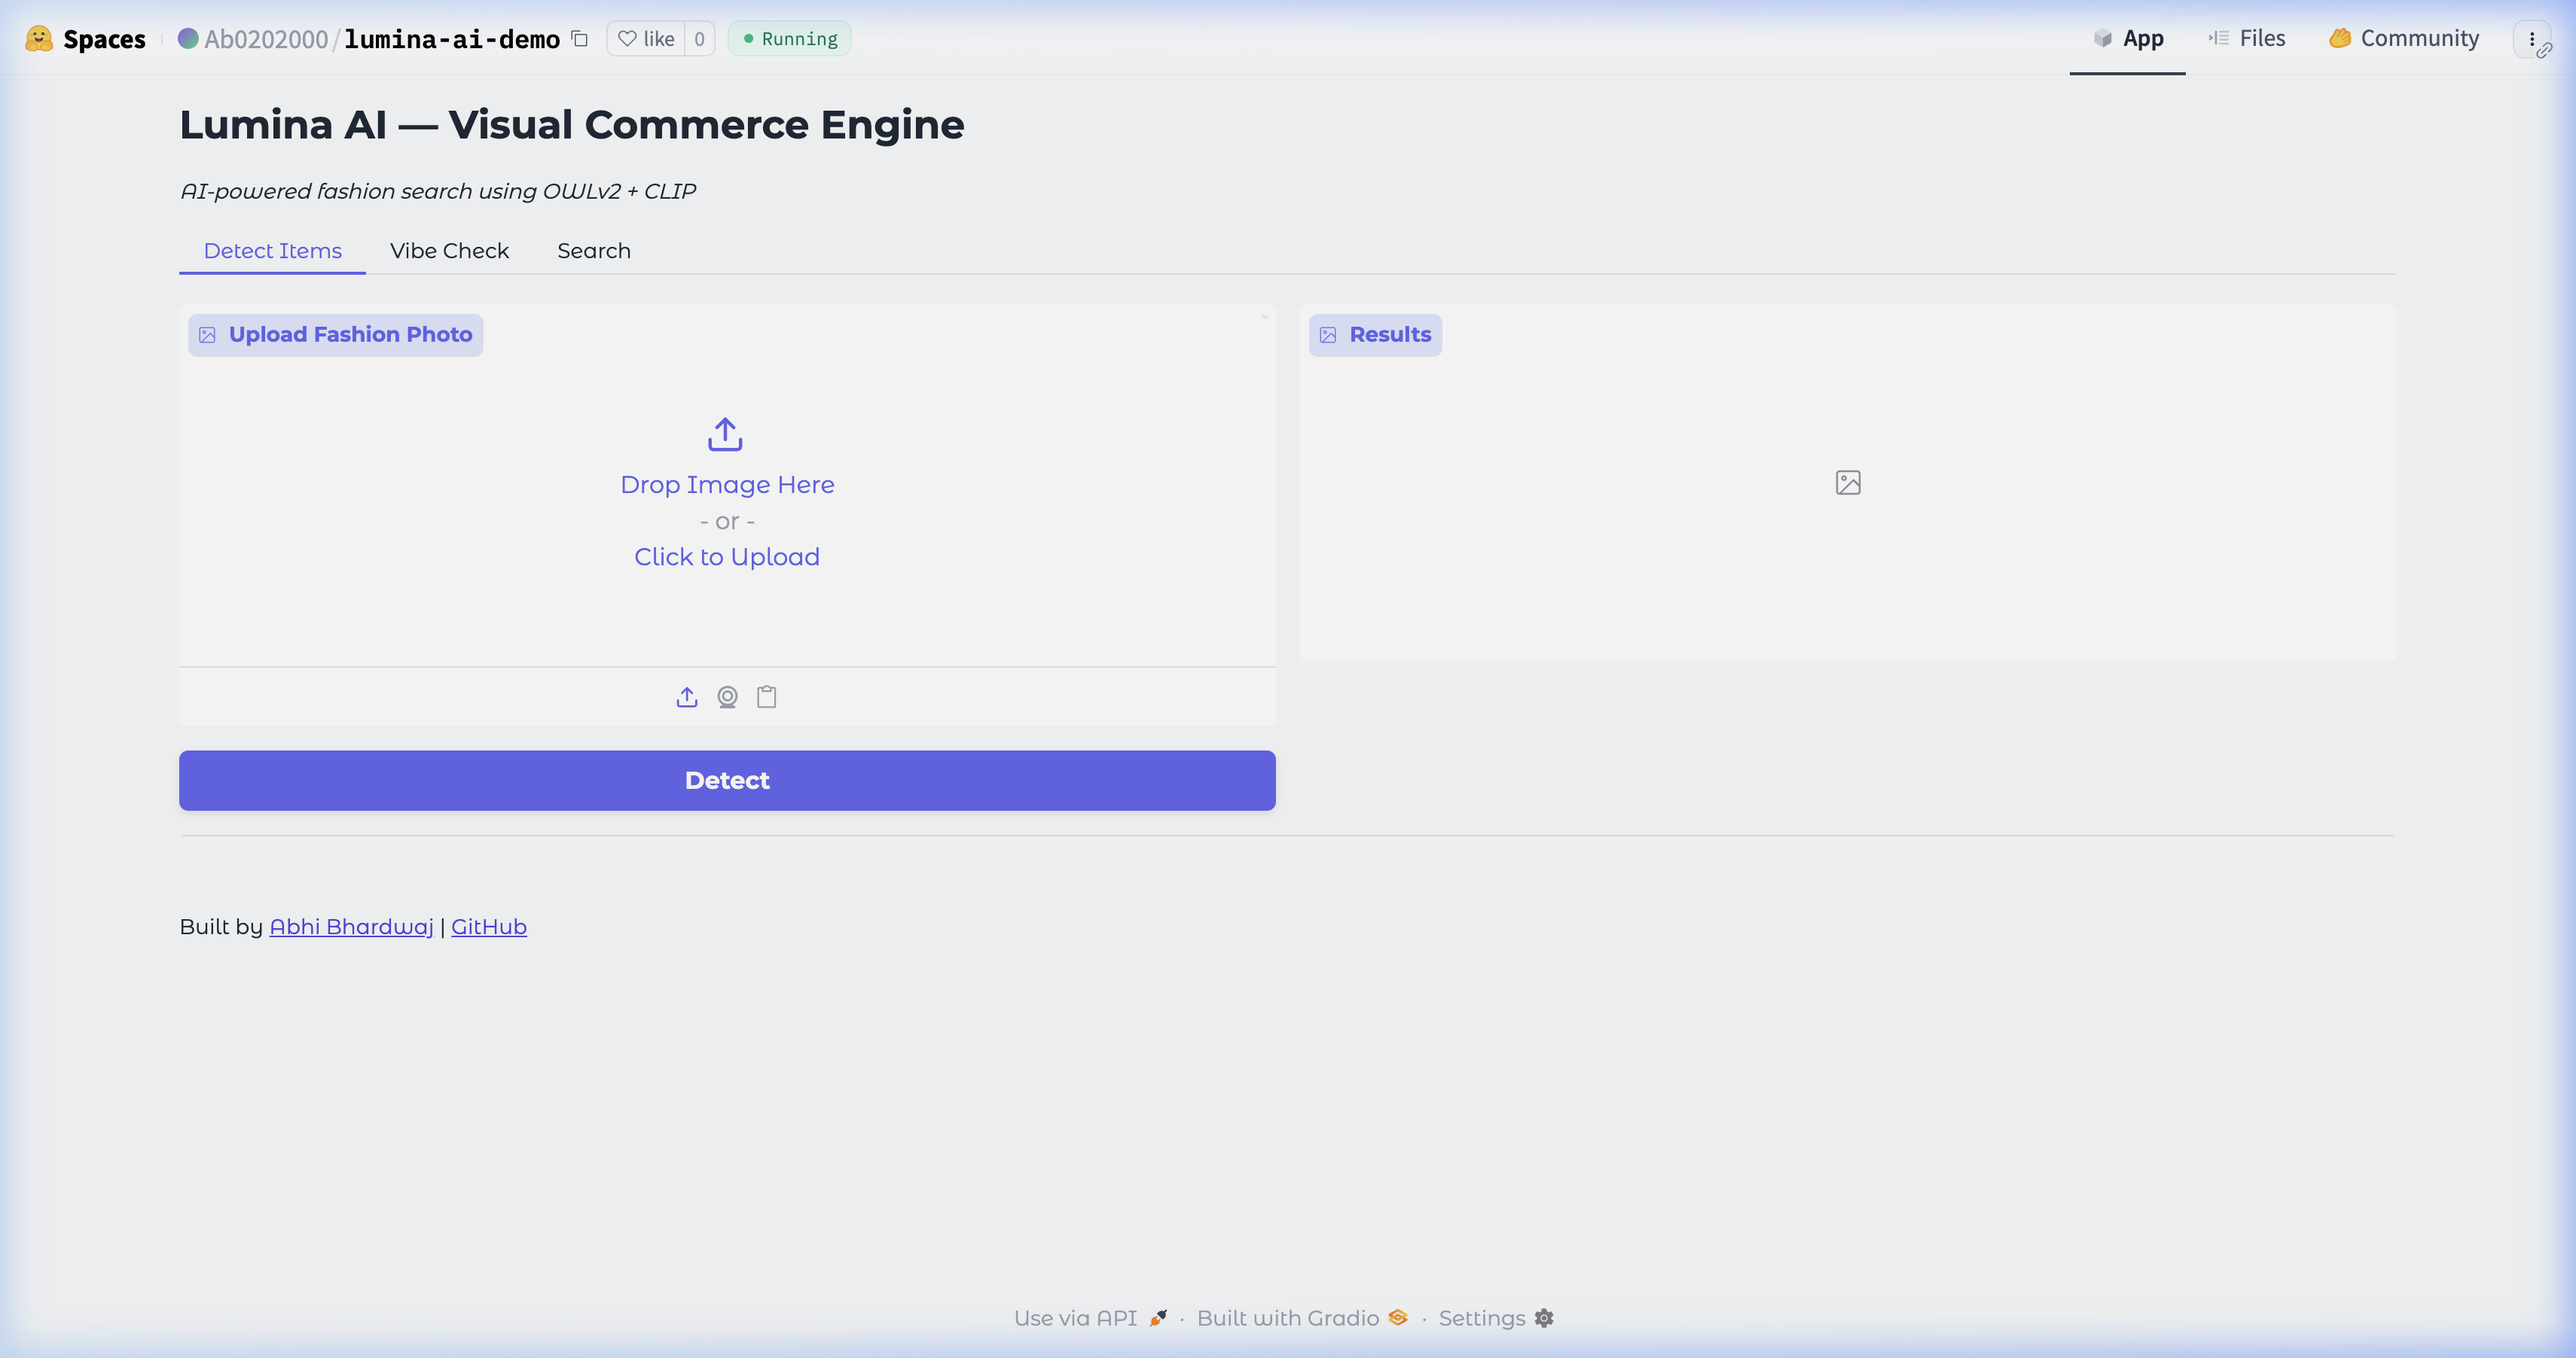
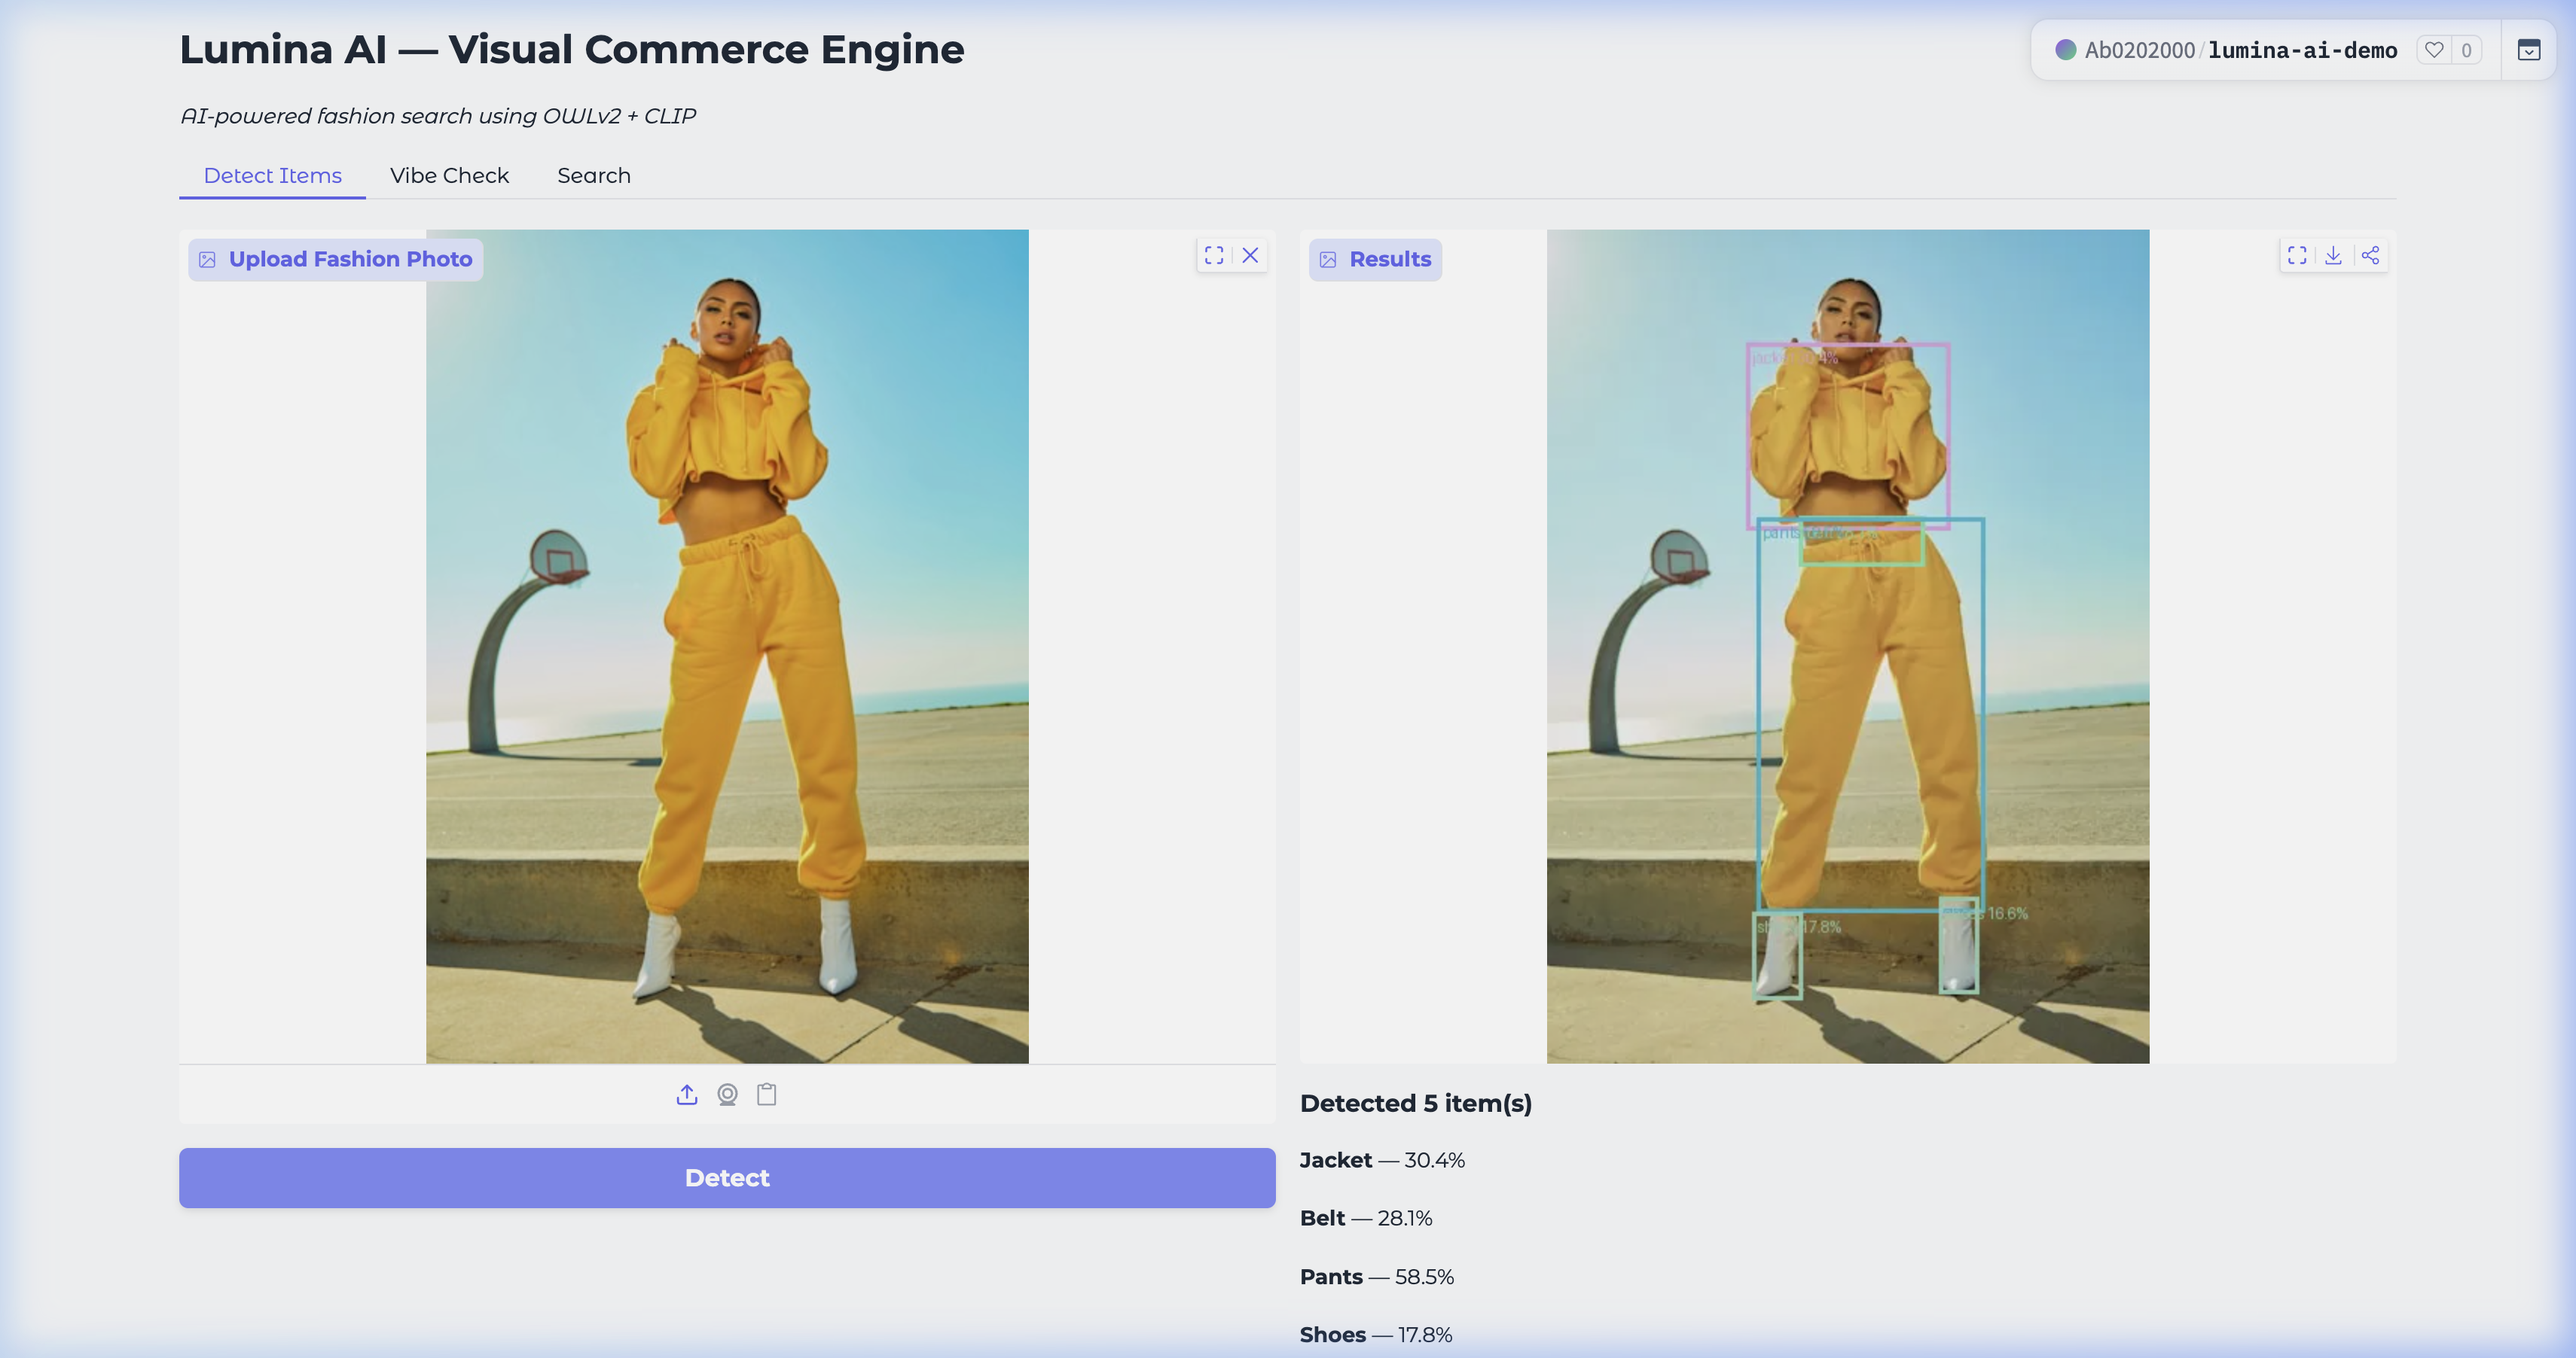
docs: update detect demo with real detection results screenshot

diff --git a/README.md b/README.md
@@ -18,7 +18,7 @@ Lumina is an intelligent visual commerce backend that understands fashion not ju
   <img src="assets/demo-detect.png" alt="Lumina AI - Object Detection" width="800">
 </p>
 
-<p align="center"><em>Detect Items — Upload any fashion image for AI-powered zero-shot object detection (OWLv2)</em></p>
+<p align="center"><em>Upload any fashion image → AI detects items with bounding boxes & confidence scores</em></p>
 
 <p align="center">
   <img src="assets/demo-search.png" alt="Lumina AI - Semantic Search" width="800">
